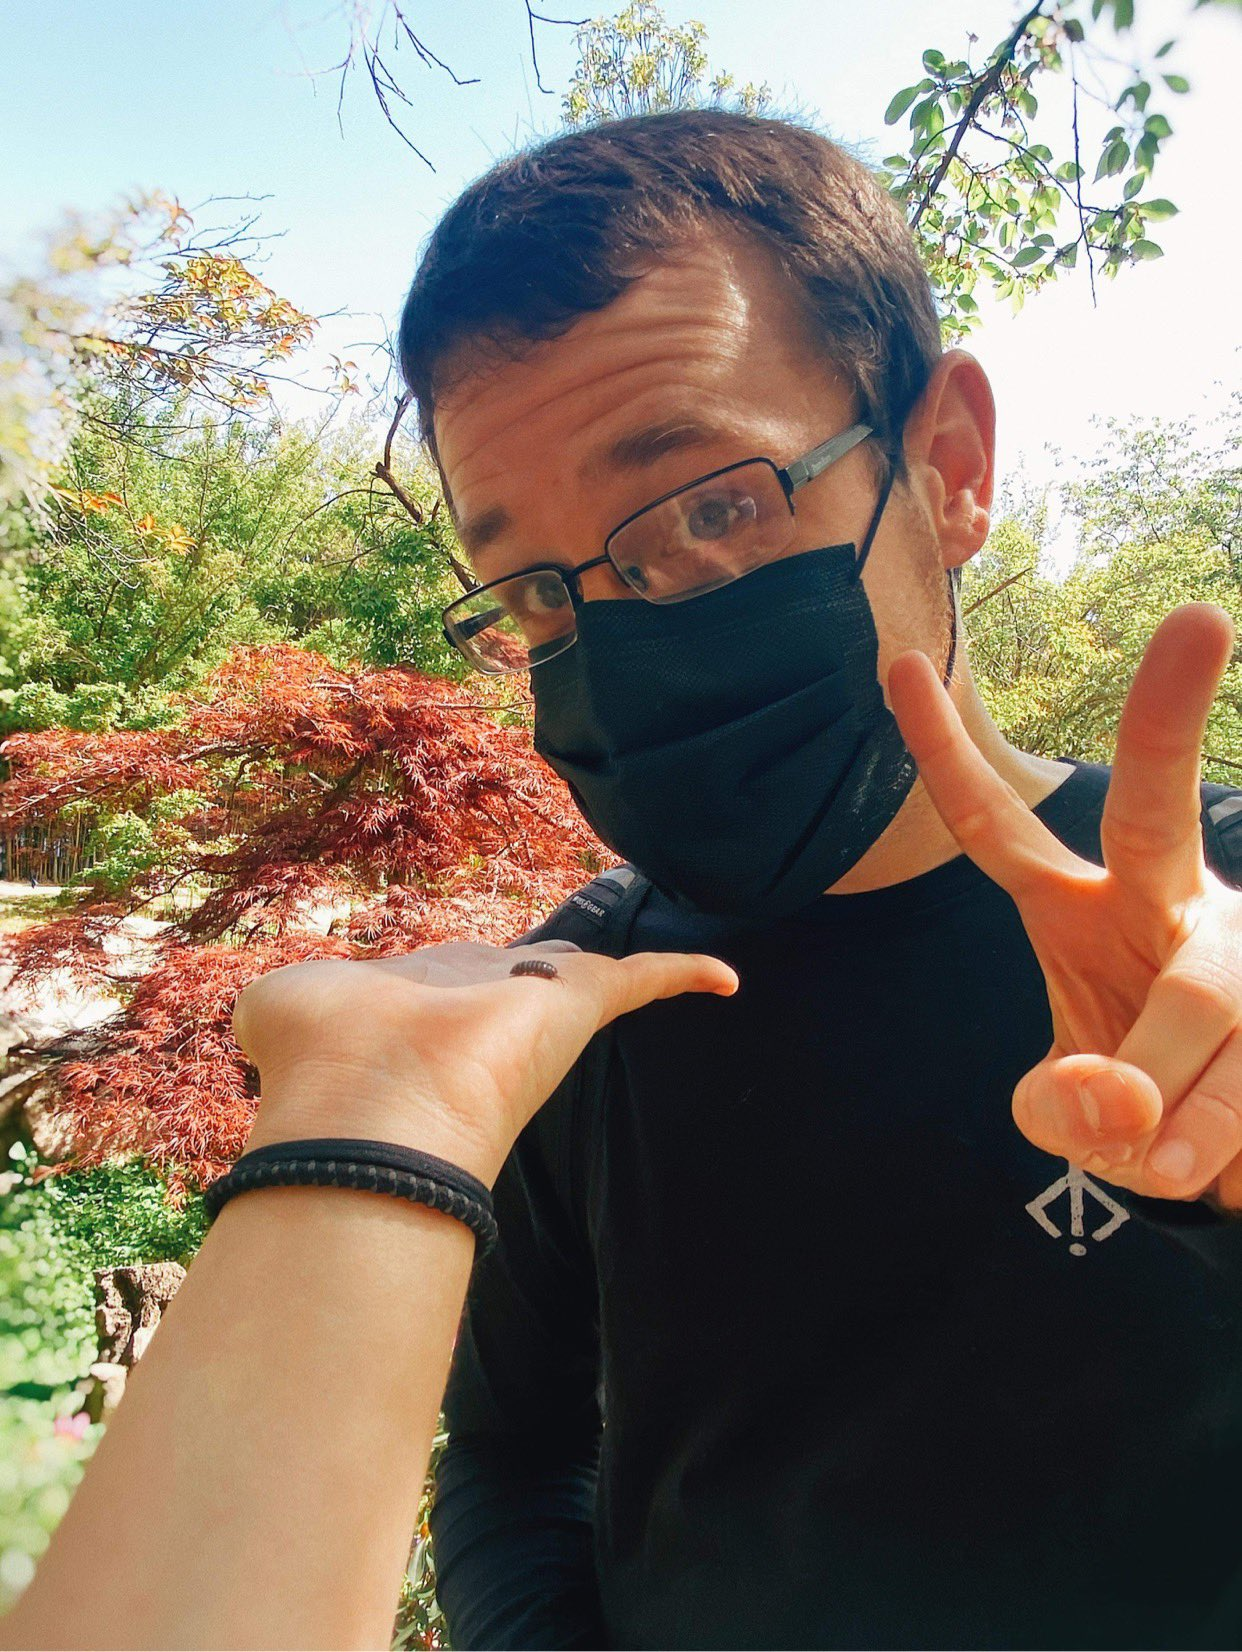
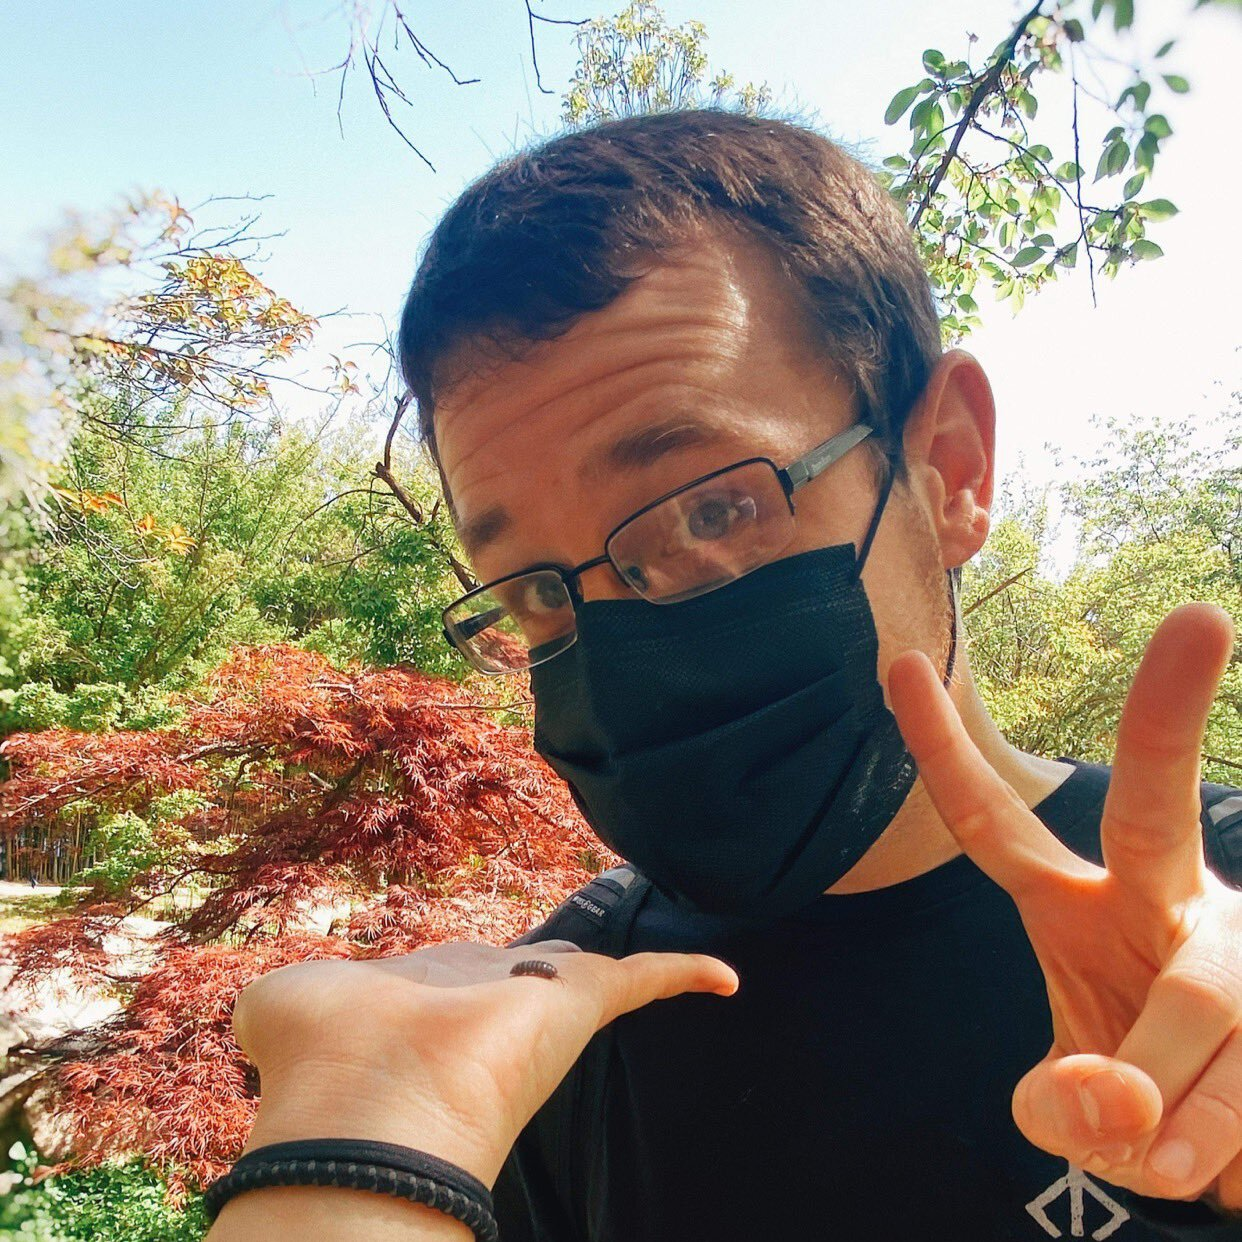
Updated about section

diff --git a/index.html b/index.html
@@ -59,41 +59,24 @@
 
     <section class="jumbotron text-center" id="About">
 
+      
+
       <div class="container about-section">
 
         <div class="row">
-
+          <h2 class="section-title">About Me</h2>
           <div class="col-md">
-          <img src="./images/profile-1.jpg" alt="Picture of Stephen" id="profile">
+            
+            <img class="img-fluid" src="./images/profile-1.jpg" alt="Picture of Stephen" id="profile">
           </div>
 
           <div class="col-md">
+            <p class="lead">Hi there! My name is Stephen and I make websites for a living! I have had an interest in web development since I was a freshman in high school when I took my computer skills class. It wasn't until April 2021 that I would actually begin to take it seriously after my partner showed me there were easily accessible online courses that could propel me forward in the tech industry!</p>
+            <p class="lead">After taking a couple courses, I was lucky enough to be accepted into Bitwise Industries' apprenticeship program to become a Wordpress developer and it has been an incredible journey.</p>
+            <p class="lead">I have had the opportunity to develop and design websites and plugins that were used with Wordpress by using a combination of JavaScript, PHP and jQuery.  I consider myself a great team player with excellent analytical skills and the ability to function well in fast-paced environments.
 
-            <div class="tab-content" id="nav-tabContent">
-              <h1 class="display-4"><strong>Stephen Russell</strong></h1>
-              <p class="lead">A rising LAMP stack WordPress developer with 1.5 years of experience in WordPress website creation and plug-in implementation.
-                Experience working with a pod of developers, designers, and managers that utilized the Scrum framework when
-                working on projects for clients.</p>
-              <div class="row">
-                <div class="about-me col-4">
-                  <ul class="about-me-list-left">
-                    <li><strong>Age</strong></li>
-                    <li><strong>Location</strong></li>
-                    <li><strong>Email</strong></li>
-                    <li><strong>Hobbies</strong></li>
-                  </ul>
-                </div>
-                <div class="col-6">
-                  <ul class="about-me-list">
-                    <li>32</li>
-                    <li>Fresno, CA</li>
-                    <li>stephenrussell2008@gmail.com</li>
-                    <li>Gaming, Dance Dance Revolution, Fantasy Novels</li>
-                  </ul>
-                </div>
-              </div>
-            </div>
-        </div>
+            </p>
+          </div>
 
       </div>
 
@@ -234,10 +217,6 @@
       </div>
 
     </section>
-
-    <!-- THIS IS THE THIRD PARALLAX -->
-
-    <!-- <section class="parallax-3"></section> -->
 
     <!-- CONTACT SECTION  -->
 

diff --git a/css/styles.css b/css/styles.css
@@ -1,12 +1,14 @@
 body {
     --nav-height: 60px;
-    --fs-sm: 14px;
-    --fs-md: 16px;
+    --fs-sm: 20px;
+    --fs-md: 24px;
+    --fs-heading: 32px;
     padding-top: var(--nav-height);
     height: 100%;
     /* overflow-x: hidden; */
     color: #77af8d;
     background-color: #1A2715;
+    padding: 20px 30px;
 }
 
 .logo {
@@ -75,6 +77,27 @@ body {
     background-color: #1A2715;
 }
 
+.section-title {
+    display: flex;
+    align-items: center;
+    position: relative;
+    margin: 10px 0px 40px;
+    width: 100%;
+    font-size: clamp(26px,5vw,var(--fs-heading));
+    white-space: nowrap;
+}
+
+.section-title::after {
+    content: "";
+    display: block;
+    position: relative;
+    top: 5px;
+    width: 300px;
+    height: 3px;
+    margin-left: 20px;
+    background-color: #cde9cd;
+}
+
 h1, h4 {
     font-family: "Ruda", sans-serif;
 }
@@ -99,11 +122,6 @@ p, li, h3 {
 .about-me-list {
     list-style-type: none;
     text-align: left;
-}
-
-#profile {
-    height: 800px;
-    width: 600px;
 }
 
 img {
